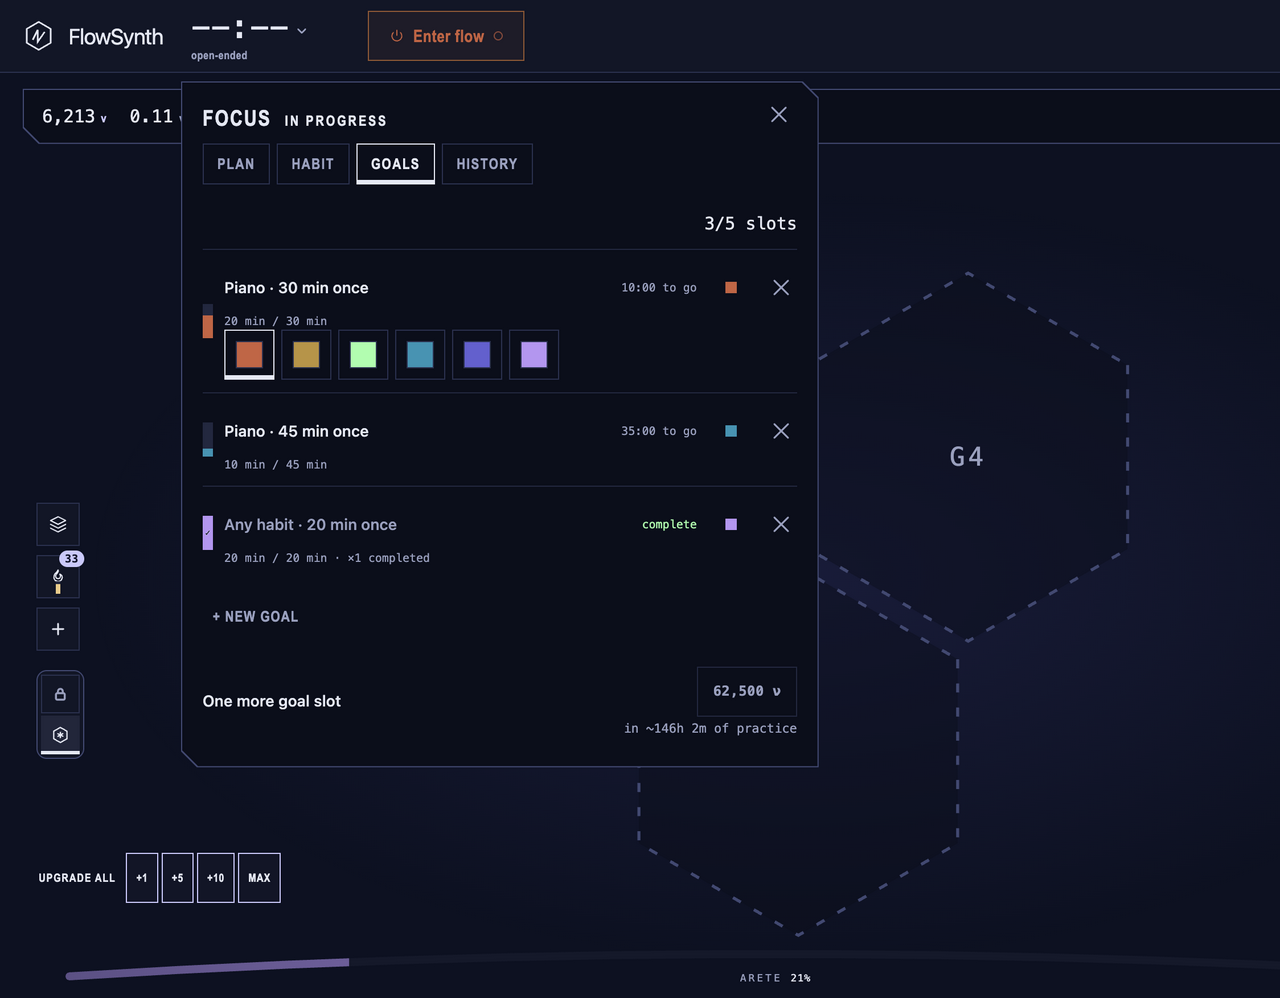
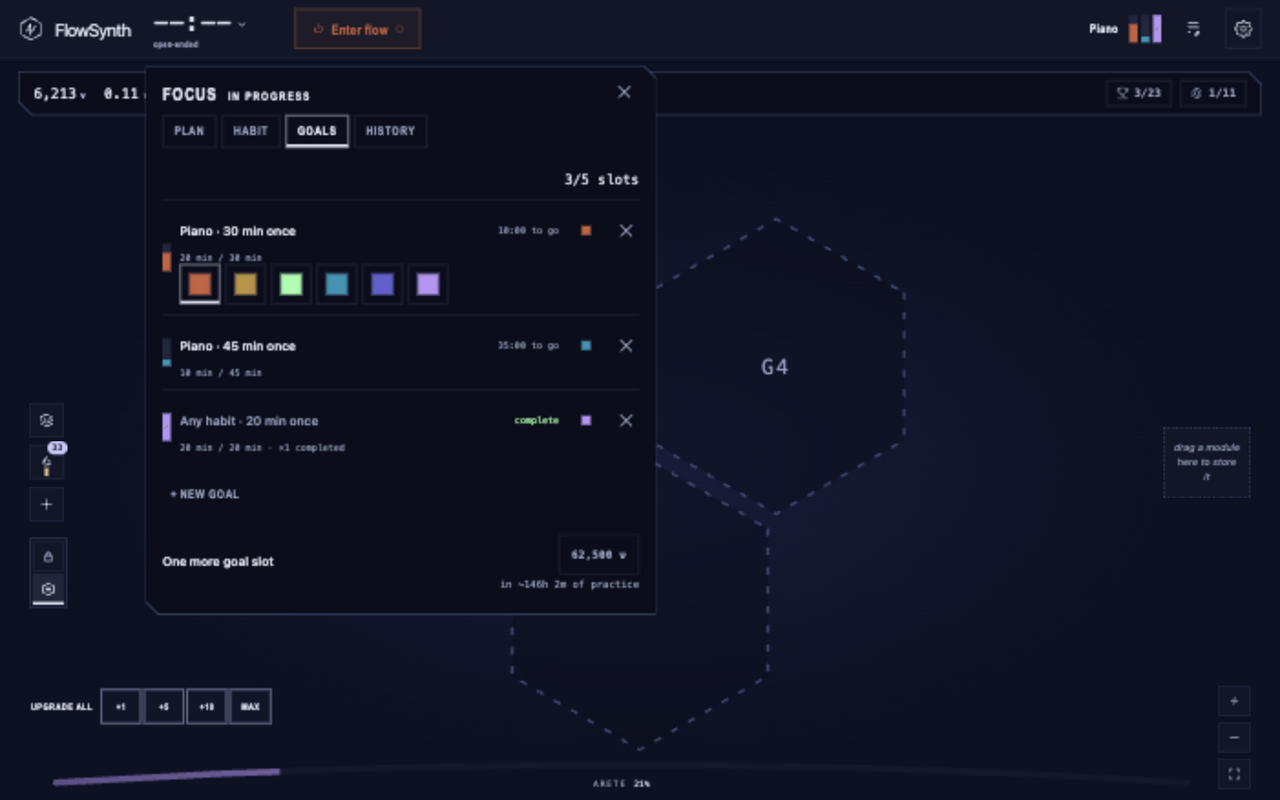
Refresh the control-geometry evidence at the container round (#316)
Board, goals, feats-sheet, and both phone captures re-taken at the
square-container commit with provenance confirmed; the README records
the feats sheet and the container pin.

diff --git a/docs/evidence/316-control-geometry/README.md b/docs/evidence/316-control-geometry/README.md
@@ -1,22 +1,23 @@
 # Evidence: the approved control geometry applied to production (#316)
 
-All captures from the verified checkout at `aa115e0`, served by `tools/dev-server.mjs` (localhost:5176) with provenance confirmed against `git rev-parse HEAD` immediately before each capture — `worktree` equal to this checkout, `commit` equal to `aa115e0`. The phone composition was captured through a true 390×844 viewport frame on the same server, so both container and viewport queries apply natively.
+All captures from the verified checkout at `2f8907d`, served by `tools/dev-server.mjs` (localhost:5176) with provenance confirmed against `git rev-parse HEAD` immediately before each capture — `worktree` equal to this checkout, `commit` equal to the captured commit. The phone composition was captured through a true 390×844 viewport frame on the same server, so both container and viewport queries apply natively.
 
 ## Captures
 
-- `desktop-board.png` — the console (square-cut switch, doors, ledger), the left dock with the meter as a shared bar column, square-cut sweep chips, the prestige horizon.
+- `desktop-board.png` — the console (square-cut switch, doors, ledger), the left dock with the meter as a shared bar column, square-cut sweep chips at the dock's compact scale, the square layer-legend strip, the square dashed inventory tray, the prestige horizon.
 - `desktop-goals-swatches.png` — the GOALS face: the shared bar column at each row's lead filling by height, the done bar at full height under the engraved ✓, the six swatches as square-cut controls with the standing pick under the firm inset marker, the unaffordable slot purchase in the muted unavailable voice.
 - `desktop-catalog.png` — the clipped catalog plate: outline-voice price buttons, term triggers on their engraved hairlines, the NOUS face tab in the selected voice.
 - `desktop-tooltip-open.png` — the `charge` term's tooltip opened by keyboard Tab: floating text over a hairline rule, no border, no card.
+- `desktop-feats-sheet.png` — the Feats sheet: the square-cut modal plate, the shared bar columns leading the capstone rows, engraved ✓ acquired marks.
 - `phone-board.png` — 390px composition: bare console doors, square-cut switch, the game-info strip's clipped plate, the thumb bar's doors, zoom cluster, sweep chips.
-- `phone-goals.png` — the focus sheet at 390px: bars, swatches, facetab marker as on desktop.
+- `phone-goals.png` — the focus sheet at 390px: bars, swatches, facetab marker as on desktop, the popover shell square-cut.
 
 ## Checks
 
 - **Disclosure**: the tooltip opens by keyboard Tab (captured) and by the click/pin path (sheet doors, swatch picker, and recolor rows exercised by click in the served page); Escape dismisses the disclosure while keyboard focus stays on the term — DOM-verified on the served page.
 - **State distinctions without color**: selected = the firm inset underline (facetabs, swatch pick, catalog face tab — visible in greyscale in the captures); unavailable = muted lettering on the soft hairline (the goals slot's 62,500 ν buy); acquired = the engraved ✓ on the done goal bar.
 - **Shared shapes**: the bar column, swatch, and button geometry render identically across console, sheet, catalog, and phone — one implementation each, asserted by the stylesheet-contract suite (`instrument.test.ts`, "the controls sheet's stylesheet contract").
-- **Checks + types**: `npm run check` and `npm test` green at `aa115e0` (61 files, 1271 passed, 2 skipped).
+- **Checks + types**: `npm run check` and `npm test` green at `2f8907d` (61 files, 1271 passed, 2 skipped); the stylesheet contract now pins the container surfaces square-cut too.
 
 ## Unavailable
 
